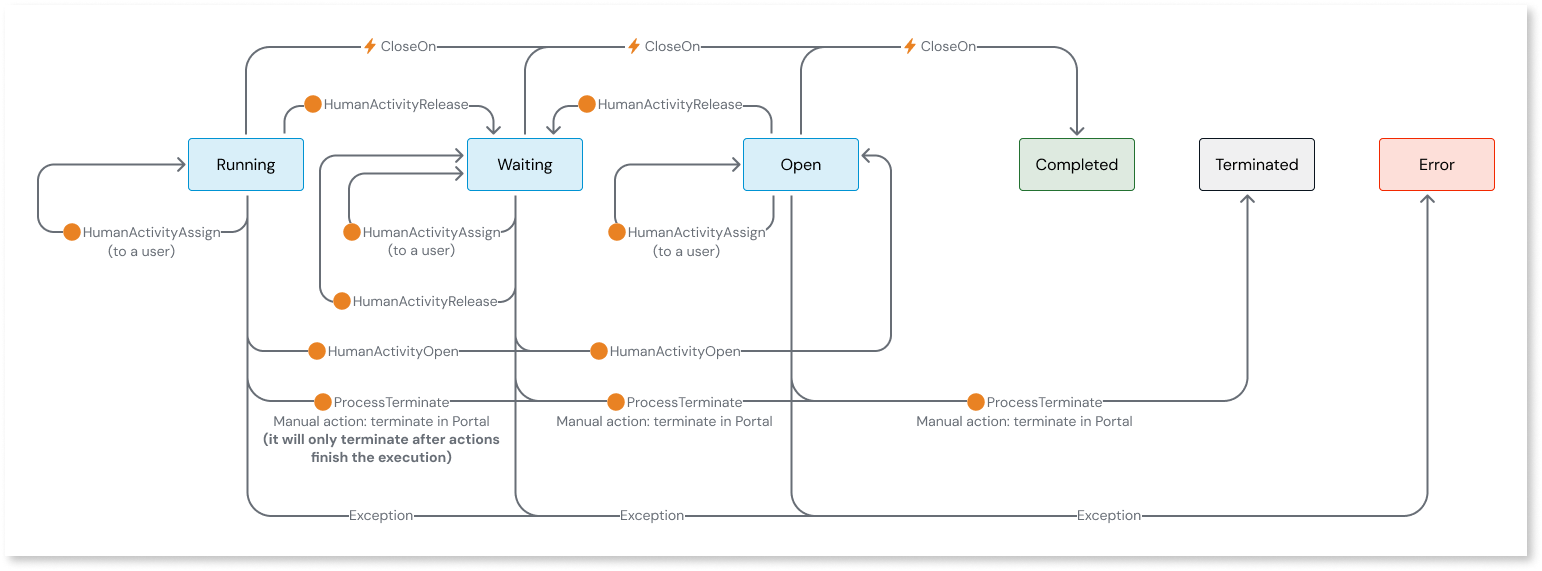
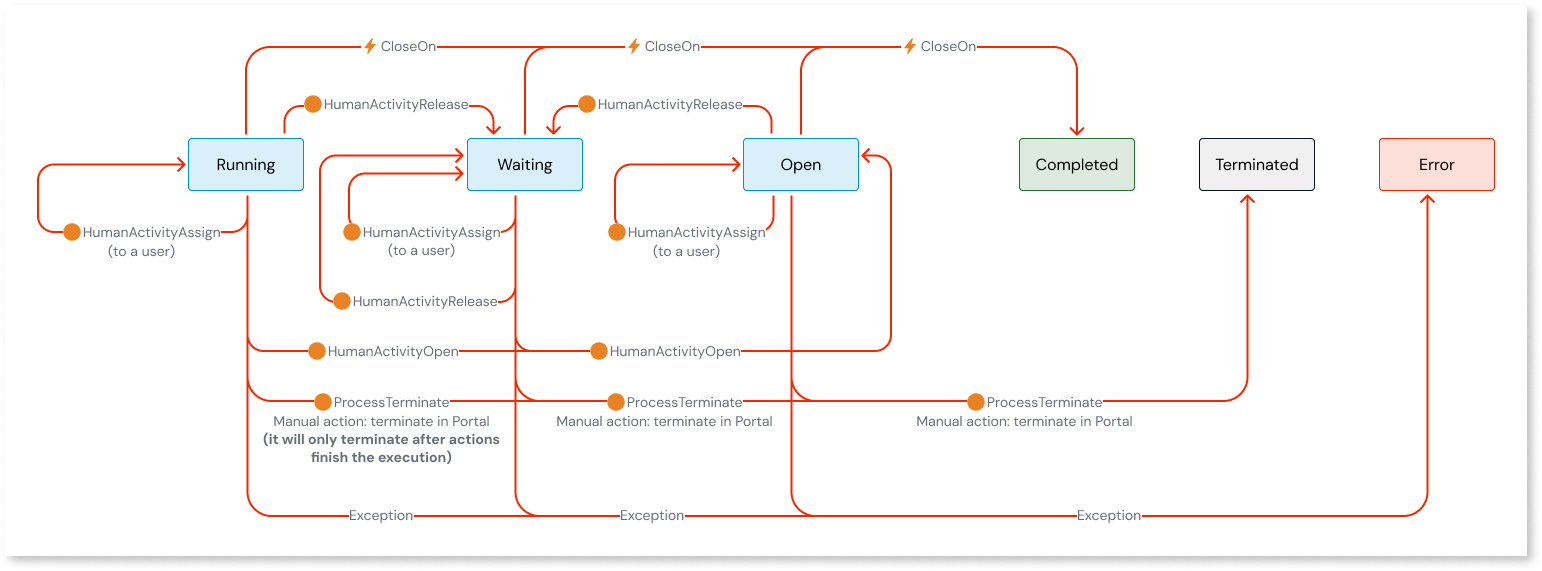
TK-25086 RRCT-8091 Define what ends the human activity Waiting status (#4149)

diff --git a/src/eap/building-apps/workflows/human-activity-states.md b/src/eap/building-apps/workflows/human-activity-states.md
@@ -13,11 +13,16 @@ platform-version: odc
 audience:
   - Developer
 tags:
+  - Business Processes
+  - End-users
+  - Events
+  - Triggers
   - Workflows
 outsystems-tools:
   - odc studio
   - portal
 helpids:
+isautopublish: true
 ---
 # Human activity status definitions
 
@@ -25,13 +30,13 @@ At any given time, based on the progress of the human activity, the **HumanActiv
 
 **Running** - The human activity is currently being executed, such as when a service action is retrieving data.
 
-**Waiting** - The human activity is on hold, awaiting further action. For instance, it may be paused for manual intervention.
+**Waiting** - The human activity waits for its **Close on** event, for example when an end user completes the task in your app, or for its **Close after timeout**, whichever happens first. When either one happens, the human activity closes and the workflow moves to the next step.
 
 **Completed** - The human activity has finished, allowing the workflow to proceed to the next step.
 
 **Terminated** - The human activity and the entire workflow is terminated following the successful execution of the ProcessTerminate API.
 
-**Error**- The human activity encounters an issue, which can happen due to:
+**Error** - The human activity encounters an issue, which can happen due to:
 
 * A failure in the service action it depends on.
 * Reaching the maximum number of retries without successful execution.
